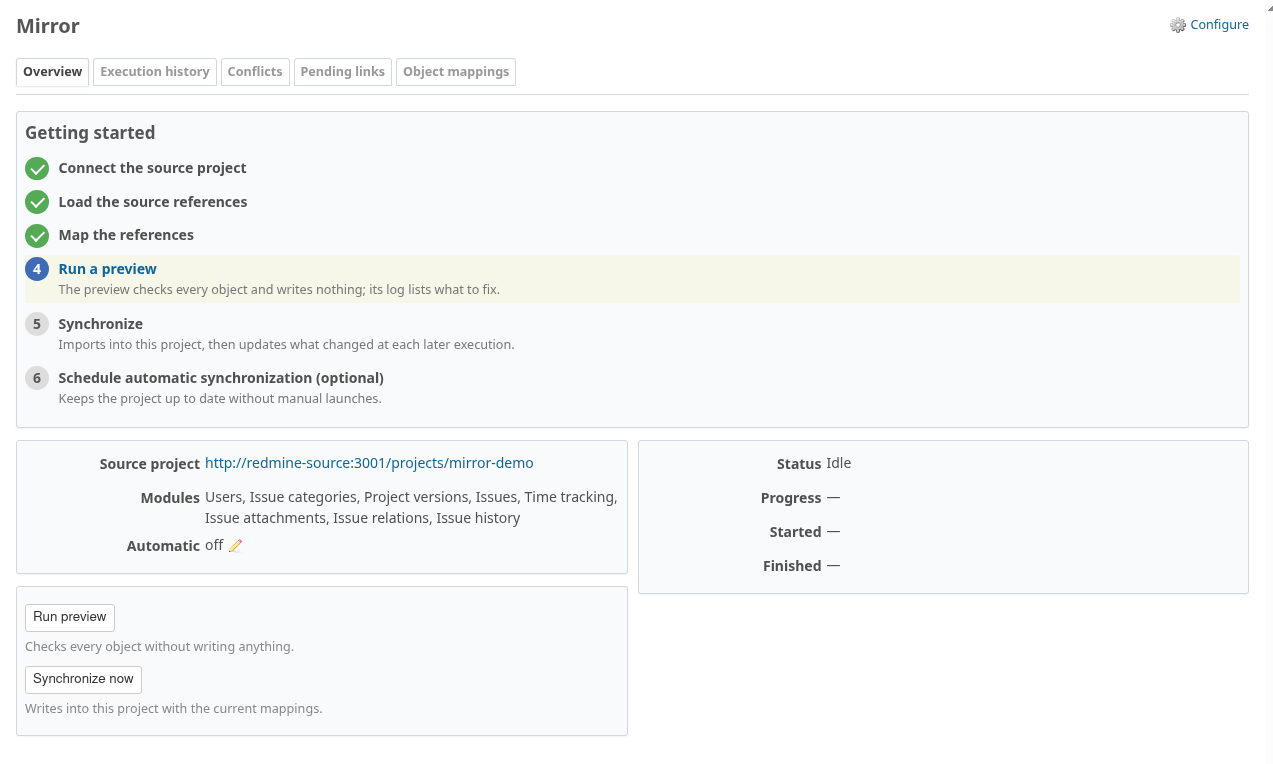
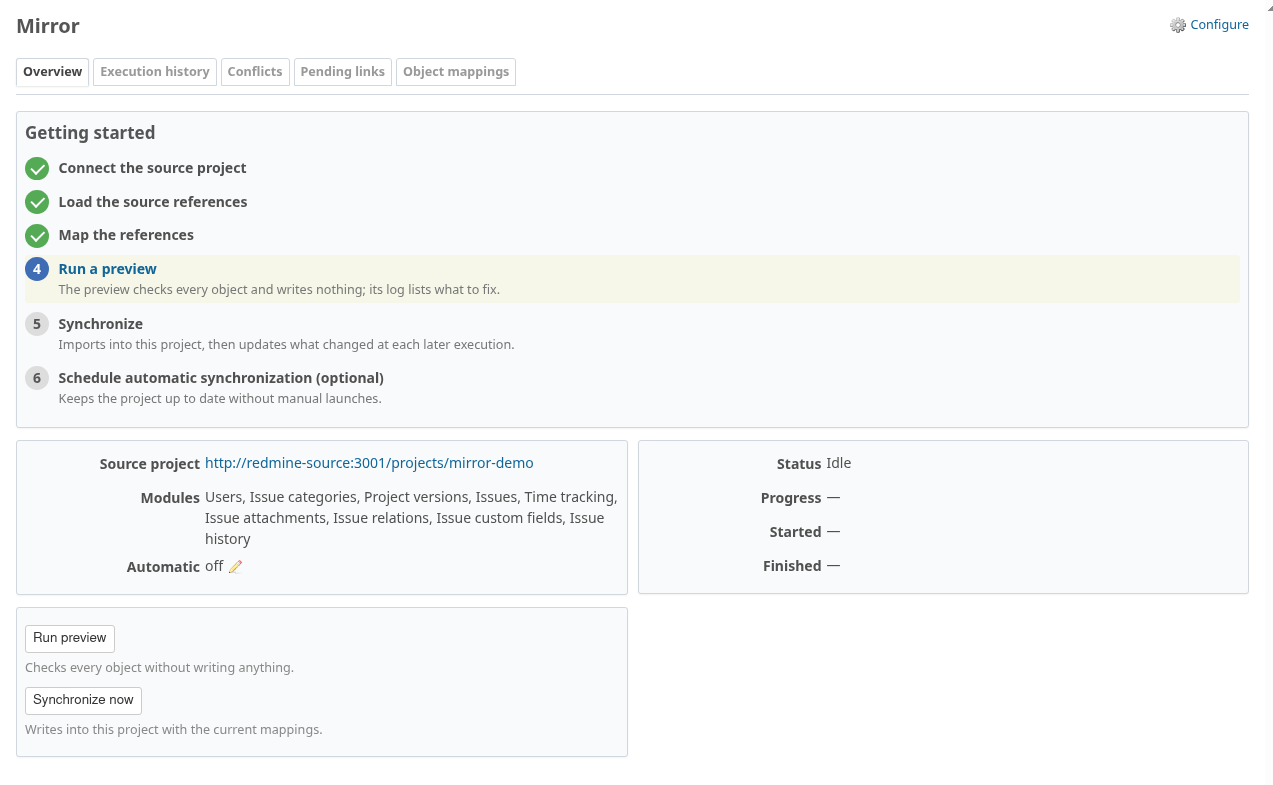
Release 1.0.0-beta.33: cross-field correspondences
Besides the standard mappings, a single-value source list field can feed the issue
priority and the source priority can be copied into a local list field, in current
values, history and saved queries. The guides' screenshots are regenerated.

Changed region(s): [[0.0, 0.0602, 0.9804, 0.5419], [0.0, 0.572, 0.4902, 0.9634], [0.5821, 0.572, 0.674, 0.7526]]

diff --git a/lib/redmine_mirror.rb b/lib/redmine_mirror.rb
@@ -19,7 +19,7 @@
 # lives here, not in lib/redmine_mirror/version.rb: Zeitwerk would require that file to
 # define RedmineMirror::Version, which would hide Redmine's Version model in this namespace.
 module RedmineMirror
-  VERSION = "1.0.0-beta.32"
+  VERSION = "1.0.0-beta.33"
   # Contract between Mirror and external adapters. Increase only on incompatible
   # changes to Adapters::Base, MappingTable or the registration rules.
   ADAPTER_API_VERSION = 1

diff --git a/README.md b/README.md
@@ -18,7 +18,7 @@ Document Mirror setup, operation, extension points or validation evidence.
 
 # <img src="assets/images/synchronisation-des-donnees-64.png" width="64" height="64" alt=""> Redmine Mirror
 
-![Version](https://img.shields.io/badge/Version-1.0.0--beta.32-orange)
+![Version](https://img.shields.io/badge/Version-1.0.0--beta.33-orange)
 ![Destination tested](https://img.shields.io/badge/Destination_tested-5.1_%7C_6.1-blue)
 ![Source tested](https://img.shields.io/badge/Source_tested-4.0_%7C_4.2_%7C_5.0_%7C_6.1-blue)
 ![Database tested](https://img.shields.io/badge/Database_tested-SQLite_3-blue)
@@ -32,7 +32,7 @@ existing destination project, through the destination REST API and native models
 
 Use it to migrate projects to a new instance, or to keep a regularly updated secondary
 copy. Each project has its own connection, mappings, schedule, history and conflicts.
-Version **1.0.0-beta.32** is a pre-release for testing before 1.0.0, not a stable release.
+Version **1.0.0-beta.33** is a pre-release for testing before 1.0.0, not a stable release.
 
 ## Features
 
@@ -46,7 +46,7 @@ Version **1.0.0-beta.32** is a pre-release for testing before 1.0.0, not a stabl
 | Issue relations | Type and delay, including endpoints in other mirrored projects |
 | Issue hierarchy | Parents, including parents imported by another project |
 | Issue watchers | Mapped active users who can see the issue |
-| Issue custom fields | Existing compatible local fields, list value mappings, history |
+| Issue custom fields | Existing compatible local fields, list value mappings, history; a list can feed the priority, the priority a list |
 | Users | Identity mappings and anonymization; registered accounts created from a Mirror source when the administrator allows it |
 | Wiki | Pages with every version, authors, dates, parents and attachments |
 | Members | Users, locked accounts and groups with mapped roles; additive |

diff --git a/CHANGELOG.md b/CHANGELOG.md
@@ -16,6 +16,14 @@ MERCHANTABILITY or FITNESS FOR A PARTICULAR PURPOSE. See LICENSE for details.
 
 # Changelog
 
+## 1.0.0-beta.33 — 2026-10-25
+
+- **Cross-field correspondences**, besides the standard mappings: a single-value source
+  list field can feed the issue priority (value by value, with a priority for issues
+  without a value), and the source priority can be copied into a local single-value list
+  field. Current values, history and saved queries follow. Existing configurations are
+  unchanged.
+
 ## 1.0.0-beta.32 — 2026-10-25
 
 - **Mirror source**: the administrator chooses the data projects may share, among the
@@ -39,11 +47,6 @@ MERCHANTABILITY or FITNESS FOR A PARTICULAR PURPOSE. See LICENSE for details.
   them for its references without correspondence when it reads its source references,
   marked *administrator default*; **Apply to configured projects** fills the others
   without reading the sources. Database migration 17. See doc/DEFAULT_MAPPINGS.md.
-- **Cross-field correspondences**, besides the standard mappings: a single-value source
-  list field can feed the issue priority (value by value, with a priority for issues
-  without a value), and the source priority can be copied into a local single-value list
-  field. Current values, history and saved queries follow. Existing configurations are
-  unchanged.
 - A write refused by the destination (HTTP 422) gives Redmine's validation messages in
   the log ("User is invalid", a locked period…) instead of the status code alone. Other
   response bodies stay hidden.

diff --git a/RELEASING.md b/RELEASING.md
@@ -17,7 +17,7 @@ MERCHANTABILITY or FITNESS FOR A PARTICULAR PURPOSE. See LICENSE for details.
 # Preparing a release
 
 This document prepares publication; it does not automatically publish, push or deploy.
-The current source is **1.0.0-beta.32**, a pre-release. The repository root must be
+The current source is **1.0.0-beta.33**, a pre-release. The repository root must be
 this plugin directory, with `init.rb` directly at its root.
 
 ## Before tagging

diff --git a/SECURITY.md b/SECURITY.md
@@ -18,7 +18,7 @@ MERCHANTABILITY or FITNESS FOR A PARTICULAR PURPOSE. See LICENSE for details.
 
 ## Supported versions
 
-Mirror is currently in beta (1.0.0-beta.32). Security fixes are considered for the
+Mirror is currently in beta (1.0.0-beta.33). Security fixes are considered for the
 latest pre-release and, after 1.0.0, the latest maintained release.
 No response or remediation deadline is promised.
 

diff --git a/test/compatibility/README.md b/test/compatibility/README.md
@@ -18,7 +18,7 @@ MERCHANTABILITY or FITNESS FOR A PARTICULAR PURPOSE. See LICENSE for details.
 
 Minimum declared Redmine version: **5.0** as a destination, **4.0** as a source with
 Mirror source (source only). This is not a compatibility certification.
-Current plugin version: **1.0.0-beta.32**.
+Current plugin version: **1.0.0-beta.33**.
 
 Destination (Redmine running Mirror):
 
